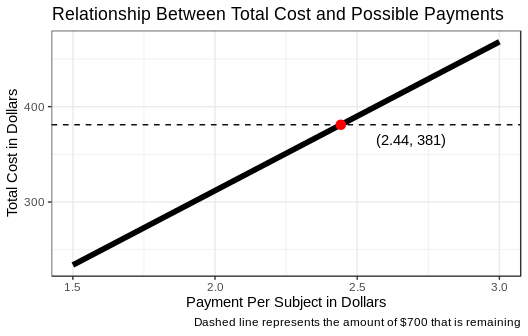
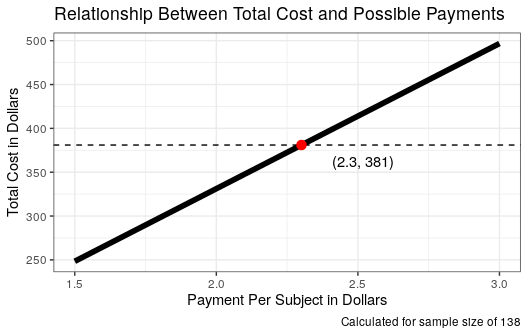
Launch Exp 3

diff --git a/exp3/demo/index.html b/exp3/demo/index.html
@@ -189,7 +189,7 @@ $(document).ready(function(){
 		<div class = 'submit_button'>
 			<!--DEVELOPMENT FLAG-->
 			<!--<form id="turkSubmit" action="https://workersandbox.mturk.com/mturk/externalSubmit" method="POST" autocomplete="off">-->
-			<form id="turkSubmit" action="https://www.mturk.com/mturk/externalSubmit" method="post" autocomplete="off">-
+			<form id="turkSubmit" action="https://www.mturk.com/mturk/externalSubmit" method="post" autocomplete="off">
 			<input type="hidden" name="assignmentId" id="assignmentId" value="">
 			<input type="submit" value="Submit" name="submitButton" id="submitButton" class = 'experimentButton' style = 'font-size: 18pt'>
 			</form>

diff --git a/mturk/scripts/createHit.py b/mturk/scripts/createHit.py
@@ -7,11 +7,11 @@ from awsKeys import aws_secret_access_key
 import boto3
 from boto.mturk.question import ExternalQuestion
 
-HOST = 'https://mturk-requester-sandbox.us-east-1.amazonaws.com' # Use this to post to the sandbox instead
-#HOST = 'https://mturk-requester.us-east-1.amazonaws.com'
+#HOST = 'https://mturk-requester-sandbox.us-east-1.amazonaws.com' # Use this to post to the sandbox instead
+HOST = 'https://mturk-requester.us-east-1.amazonaws.com'
 
-pay = '1.5'
-max_assignments = 9
+pay = '2.3'
+max_assignments = 1
 lifetime = 2 * 24 * 60 * 60 # days, hours, mins, seconds
 
 exp = 'exp3'
@@ -35,6 +35,7 @@ def PostHits(pay, lifetime, max_assignments, exp):
 	## EXP 3 PILOT
 	#q = ExternalQuestion(external_url = "https://davebraun.org/dissertation/experiments/production/pilots/exp3Pilot/", frame_height=675)
 
+
 	qr = [{
     'QualificationTypeId': '000000000000000000L0',
     'Comparator': 'GreaterThanOrEqualTo',
@@ -57,8 +58,15 @@ def PostHits(pay, lifetime, max_assignments, exp):
 		'Comparator': 'Exists',
 		'ActionsGuarded': 'PreviewAndAccept'
 		})
-	'''
 	
+
+	## Selective worker qualification
+	qr = [{
+		'QualificationTypeId': '38TZ8V8N0DPKTFADTBYQNO29VLSIPN',
+		'Comparator': 'Exists',
+		'ActionsGuarded': 'PreviewAndAccept'
+		}]
+	'''
 
 	mtc = boto3.client('mturk', endpoint_url = HOST,region_name = region_name,aws_access_key_id = aws_access_key_id,aws_secret_access_key = aws_secret_access_key)
 

diff --git a/mturk/scripts/consoleClient.py b/mturk/scripts/consoleClient.py
@@ -7,19 +7,19 @@ import boto3
 
 region_name = 'us-east-1'
 
-HOST = 'https://mturk-requester-sandbox.us-east-1.amazonaws.com'
-#HOST = 'https://mturk-requester.us-east-1.amazonaws.com'
+#HOST = 'https://mturk-requester-sandbox.us-east-1.amazonaws.com'
+HOST = 'https://mturk-requester.us-east-1.amazonaws.com'
 
 
 mtc = boto3.client('mturk', endpoint_url = HOST,region_name = region_name,aws_access_key_id = aws_access_key_id,aws_secret_access_key = aws_secret_access_key)
 
 
 
-pay = '1.5'
+pay = '2.3'
 keywords = 'attention, psychology, experiment, research'
 title = 'A Decision Making Experiment'
 experimentName = 'Decision Making Experiment' ## this is NOT what it ends up getting called on my server
-description = 'This HIT will take about 30 mins to complete. All HITS in this batch are the same, and you will only be able to perform one of the HITS in this batch.'
+description = 'This HIT will take about 30-40 mins to complete. All HITS in this batch are the same, and you will only be able to perform one of the HITS in this batch.'
 
 q = ExternalQuestion(external_url = "https://davebraun.org/dissertation/experiments/production/" + exp +"/", frame_height=675)
 

diff --git a/mturk/scripts/microBatch.py b/mturk/scripts/microBatch.py
@@ -23,10 +23,11 @@ if not targetAssignments or len(targetAssignments) > 1:
 
 targetAssignments = int(targetAssignments[0])
 
-HOST = 'mechanicalturk.sandbox.amazonaws.com' # Use this to post to the sandbox instead
-#HOST = 'mechanicalturk.amazonaws.com'
 
-pay = '1.5'
+#HOST = 'mechanicalturk.sandbox.amazonaws.com' # Use this to post to the sandbox instead
+HOST = 'mechanicalturk.amazonaws.com'
+
+pay = '2.3'
 max_assignments = 9
 lifetime = 2 * 24 * 60 * 60 # days, hours, mins, seconds
 
@@ -38,6 +39,7 @@ if targetAssignments % 9:
 	batches += 1
 
 hit_id_container = []
+
 
 for batch in range(batches):
 	if batch == range(batches)[-1]:

diff --git a/mturk/scripts/hitInfo.py b/mturk/scripts/hitInfo.py
@@ -19,7 +19,7 @@ mtc = boto3.client('mturk', endpoint_url = HOST,region_name = region_name,aws_ac
 
 print '\n'
 
-for hit in mtc.list_hits()['HITs']:
+for hit in mtc.list_hits(MaxResults = 100)['HITs']:
 	maxAssignments = hit['MaxAssignments']
 	availableAssignments = hit['NumberOfAssignmentsAvailable']
 	pendingAssignments = hit['NumberOfAssignmentsPending']

diff --git a/exp3/dataProcessing/dataProcessing.py b/exp3/dataProcessing/dataProcessing.py
@@ -35,7 +35,7 @@ def catchPartialData(args, fTypes):
 
   for key in d:
     ## if an assignment id doesnt have the length of phase types (plus init)
-    if len(d[key]) < len(fTypes) + 1:
+    if len(d[key]) < len(fTypes):
       ## add it to partialData
       partialData.append(key)
 
